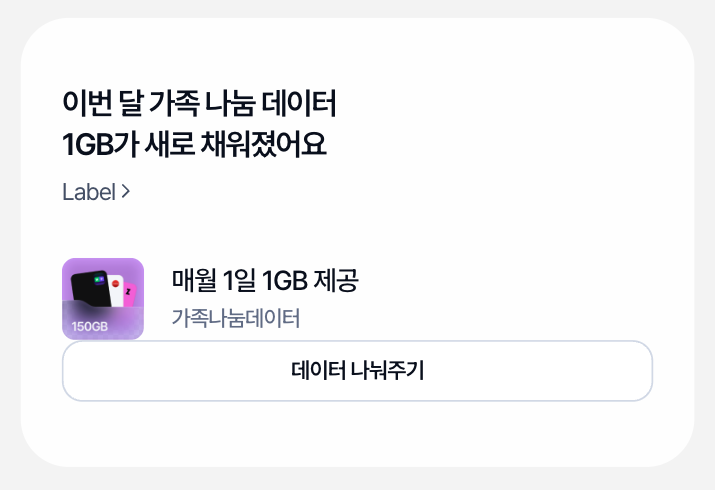
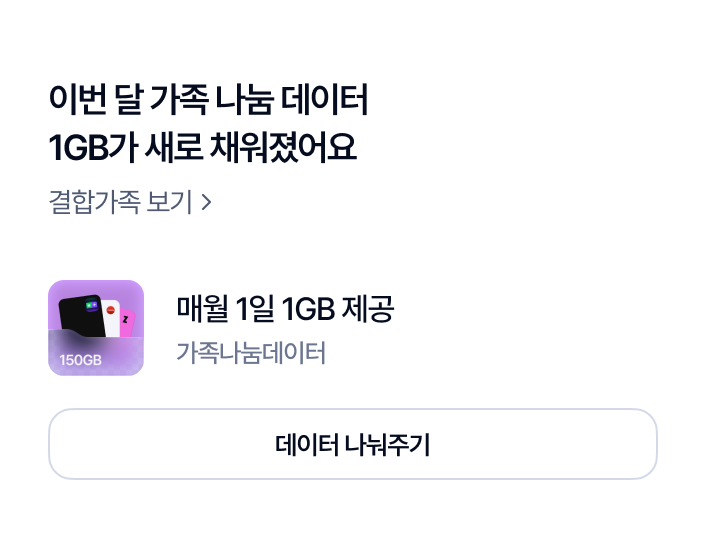
feat(corner-types): 신규 71 프리셋으로 코너 유형 관리(프리셋) 재구성
- 혜택형(중분류 제휴사형·미션형·이벤트형·혜택프로그램형·이용지원형) + 상품형(기기지원금·요금제·구독)
  > 레이아웃(배너·세로·가로·탭·바코드·그래프·좌우 리스트)으로 71개 재분류. 중분류=파일명, 레이아웃=이미지 실측.
- preset-images 전면 교체: 구 22장 → 신규 71장(DisplayCard 4장=0070~0073 포함), 0019·0020 제거.
- 이름 소스 preset-names.json(71) 신설 — presetDesignName이 우선 참조.
- 프리셋 카드 바깥 테두리 박스 제거(PNG 자체가 둥근 카드+여백 → 이중 프레임/여백 방지).
- 전시화면 관리 빌더: 혜택 컨테이너만 노출(name 필터, 데이터 보존).

diff --git a/src/lib/preset-shape-groups.ts b/src/lib/preset-shape-groups.ts
@@ -1,97 +1,160 @@
-// 코너 유형 관리(프리셋) — SB 혜택 프리셋 묶음(2026-11-20 사용자 요청).
-//  상위 분류: 혜택형(제휴사/프로모션) · 개인형(내 데이터 기반) · 상품형. 모양(배너 유무 등)은 하위 뎁스.
-//   · 배너형에는 상단 배너가 있는 프리셋만. 배너 없는 모양은 각자 유형으로 분리.
-//   · '데이터' 이름(내 데이터 선물·나눔·리필·기념일 데이터)은 제휴 혜택이 아니라 '개인형'으로 모음(2026-11-20).
-//   · 0012 경품 배송지=프로모션 세로형 · 0026 룰렛=프로모션 배너리스트 · 0010 출석미션=프로모션 그래프.
-//   · 0014·0028·0027·0001=상품형(맨 아래).
-//  이미지 = public/assets/preset-images/<CN-DSP-id>.png · 이름 = benefit-preset-designs.json.
-// source = 이 유형의 아이템 데이터를 가져오는 '원장(SSOT)'. 지금까지 협의 기준(2026-11-20):
-//  제휴사=어드민 제휴사 카테고리 관리 · 프로모션형=어드민 프로모션 관리 · 개인형=CVM·고객 원장(@cvm:key) · 상품형=EPC 원장.
+// 코너 유형 관리(프리셋) — 신규 71 프리셋(2026/11) 기준. 혜택형 top · 중분류 고정 · 레이아웃 leaf. 기기지원금·요금제·구독=상품형(2026-11-23 사용자).
+//  이미지 = public/assets/preset-images/<CN-DSP-id>.png · 중분류=파일명 · 레이아웃=이미지 실측.
 export type PresetShapeGroup = { key: string; label: string; note: string; source: string; presetIds: string[] };
 
 export const PRESET_SHAPE_GROUPS: PresetShapeGroup[] = [
   {
-    key: 'affiliate-banner',
-    label: '혜택형 > 제휴사 > 배너·세로형',
-    note: '상단 배너 + 세로형 제휴사 혜택 (바코드·혜택카드)',
-    source: '어드민 · 제휴사 카테고리 관리 (할인, 쿠폰)',
-    presetIds: ['CN-DSP-0004', 'CN-DSP-0011', 'CN-DSP-0018', 'CN-DSP-0009'],
+    key: 'aff-banner',
+    label: '혜택형 > 제휴사형 > 배너형',
+    note: '제휴사형 · 배너형 (4개)',
+    source: '어드민 · 제휴사 카테고리 관리',
+    presetIds: ['CN-DSP-0003', 'CN-DSP-0008', 'CN-DSP-0009', 'CN-DSP-0039'],
   },
   {
-    key: 'affiliate-triple',
-    label: '혜택형 > 제휴사 > 세로형',
-    note: '배너 없음 · 세로 혜택 카드(±안내, ±버튼)',
-    source: '어드민 · 제휴사 카테고리 관리 (할인, 쿠폰)',
-    presetIds: ['CN-DSP-0020', 'CN-DSP-0021'],
+    key: 'aff-vertical',
+    label: '혜택형 > 제휴사형 > 세로형',
+    note: '제휴사형 · 세로형 (8개)',
+    source: '어드민 · 제휴사 카테고리 관리',
+    presetIds: ['CN-DSP-0007', 'CN-DSP-0018', 'CN-DSP-0021', 'CN-DSP-0024', 'CN-DSP-0025', 'CN-DSP-0030', 'CN-DSP-0061', 'CN-DSP-0073'],
   },
   {
-    key: 'program',
-    label: '혜택형 > 프로그램형 > 세로형',
-    note: 'VIP Pick·T데이 등 이름 가진 내부 프로그램 · 혜택(모아보기·큐레이션) / 미션(출석체크 적립) · 세로형 + CTA',
-    source: '내부 프로그램 (혜택 프로그램, 미션 프로그램)',
-    presetIds: ['CN-DSP-0024', 'CN-DSP-0025', 'CN-DSP-0010'],
+    key: 'aff-barcode',
+    label: '혜택형 > 제휴사형 > 바코드형',
+    note: '제휴사형 · 바코드형 (2개)',
+    source: '어드민 · 제휴사 카테고리 관리',
+    presetIds: ['CN-DSP-0004', 'CN-DSP-0011'],
   },
   {
-    key: 'program-banner',
-    label: '혜택형 > 프로그램형 > 배너·세로형',
-    note: '돈 버는 교통 등 적립 미션 · 상단 배너 + 세로형 + CTA → 내부 메뉴 진입',
-    source: '내부 프로그램 (혜택 프로그램, 미션 프로그램)',
+    key: 'mission-banner',
+    label: '혜택형 > 미션형 > 배너형',
+    note: '미션형 · 배너형 (1개)',
+    source: '내부 미션 서비스(진행값=고객 / 랜딩=내부 메뉴)',
     presetIds: ['CN-DSP-0002'],
   },
   {
-    key: 'promotion-banner-list',
-    label: '혜택형 > 프로모션형 > 배너 · 좌우 리스트형',
-    note: '참여/응모형(룰렛 등) · 상단 배너 + 좌우 리스트 + 버튼',
-    source: '하이브리드 · 어드민 프로모션 관리 + 고객 원장(응모·참여 내역)',
+    key: 'mission-vertical',
+    label: '혜택형 > 미션형 > 세로형',
+    note: '미션형 · 세로형 (2개)',
+    source: '내부 미션 서비스(진행값=고객 / 랜딩=내부 메뉴)',
+    presetIds: ['CN-DSP-0029', 'CN-DSP-0042'],
+  },
+  {
+    key: 'mission-tab',
+    label: '혜택형 > 미션형 > 탭형',
+    note: '미션형 · 탭형 (1개)',
+    source: '내부 미션 서비스(진행값=고객 / 랜딩=내부 메뉴)',
+    presetIds: ['CN-DSP-0043'],
+  },
+  {
+    key: 'mission-graph',
+    label: '혜택형 > 미션형 > 그래프형',
+    note: '미션형 · 그래프형 (1개)',
+    source: '내부 미션 서비스(진행값=고객 / 랜딩=내부 메뉴)',
+    presetIds: ['CN-DSP-0010'],
+  },
+  {
+    key: 'mission-siderow',
+    label: '혜택형 > 미션형 > 좌우 리스트형',
+    note: '미션형 · 좌우 리스트형 (1개)',
+    source: '내부 미션 서비스(진행값=고객 / 랜딩=내부 메뉴)',
     presetIds: ['CN-DSP-0026'],
   },
   {
-    key: 'promotion-vertical',
-    label: '혜택형 > 프로모션형 > 세로형',
-    note: '이벤트·경품 안내 카드 · 세로 카드 + 안내 + CTA(배송지 입력 등)',
-    source: '미정 (협의 중)',
-    presetIds: ['CN-DSP-0012'],
+    key: 'event-vertical',
+    label: '혜택형 > 이벤트형 > 세로형',
+    note: '이벤트형 · 세로형 (6개)',
+    source: '어드민 · 프로모션 관리',
+    presetIds: ['CN-DSP-0012', 'CN-DSP-0037', 'CN-DSP-0040', 'CN-DSP-0041', 'CN-DSP-0056', 'CN-DSP-0062'],
   },
   {
-    key: 'personal-data',
-    label: '개인형 > 데이터 > 세로형',
-    note: '제휴 혜택이 아닌 내 데이터 기반 — 데이터 선물·나눔·리필·기념일 데이터',
-    source: '고객 원장(내 데이터 잔여·선물·나눔)',
-    presetIds: ['CN-DSP-0017', 'CN-DSP-0022', 'CN-DSP-0023', 'CN-DSP-0016'],
+    key: 'event-tab',
+    label: '혜택형 > 이벤트형 > 탭형',
+    note: '이벤트형 · 탭형 (1개)',
+    source: '어드민 · 프로모션 관리',
+    presetIds: ['CN-DSP-0045'],
   },
   {
-    key: 'personal-point',
-    label: '개인형 > 포인트 > 좌우 리스트형',
-    note: '내 포인트 기반 · 좌 라벨/우 값 적립·소멸 내역 리스트 + 안내문구',
-    source: '고객 원장(포인트 적립·소멸 내역)',
-    presetIds: ['CN-DSP-0019'],
+    key: 'program-banner',
+    label: '혜택형 > 혜택프로그램형 > 배너형',
+    note: '혜택프로그램형 · 배너형 (3개)',
+    source: '내부 프로그램(기획) · 아이템=제휴/상품 편성',
+    presetIds: ['CN-DSP-0047', 'CN-DSP-0048', 'CN-DSP-0049'],
   },
   {
-    key: 'product-sub',
-    label: '상품형 > 구독상품 > 배너·세로형',
-    note: 'T우주 등 구독 상품(미활성화·외부 앱) · 상단 배너 + 세로형 + CTA',
-    source: 'EPC 원장 (구독)',
-    presetIds: ['CN-DSP-0014', 'CN-DSP-0006'],
+    key: 'program-vertical',
+    label: '혜택형 > 혜택프로그램형 > 세로형',
+    note: '혜택프로그램형 · 세로형 (5개)',
+    source: '내부 프로그램(기획) · 아이템=제휴/상품 편성',
+    presetIds: ['CN-DSP-0044', 'CN-DSP-0046', 'CN-DSP-0051', 'CN-DSP-0052', 'CN-DSP-0054'],
   },
   {
-    key: 'product-device-banner',
-    label: '상품형 > 디바이스 > 배너·가로형',
-    note: '기기 지원금 · 상단 배너 + 가로 캐러셀(단말 카드)',
-    source: 'EPC 원장 (기기 지원금)',
-    presetIds: ['CN-DSP-0028'],
+    key: 'program-hcarousel',
+    label: '혜택형 > 혜택프로그램형 > 가로형',
+    note: '혜택프로그램형 · 가로형 (3개)',
+    source: '내부 프로그램(기획) · 아이템=제휴/상품 편성',
+    presetIds: ['CN-DSP-0057', 'CN-DSP-0058', 'CN-DSP-0059'],
   },
   {
-    key: 'product-device-vertical',
-    label: '상품형 > 디바이스 > 세로형',
-    note: '단말 보상(안심보상) · 세로 상품 카드 + CTA',
-    source: 'EPC 원장 (안심보상)',
+    key: 'program-tab',
+    label: '혜택형 > 혜택프로그램형 > 탭형',
+    note: '혜택프로그램형 · 탭형 (6개)',
+    source: '내부 프로그램(기획) · 아이템=제휴/상품 편성',
+    presetIds: ['CN-DSP-0035', 'CN-DSP-0036', 'CN-DSP-0050', 'CN-DSP-0053', 'CN-DSP-0055', 'CN-DSP-0060'],
+  },
+  {
+    key: 'support-banner',
+    label: '혜택형 > 이용지원형 > 배너형',
+    note: '이용지원형 · 배너형 (1개)',
+    source: '직접 입력(운영) · 앱 내 링크 (API 아님)',
     presetIds: ['CN-DSP-0027'],
   },
   {
-    key: 'product-roaming',
-    label: '상품형 > 로밍형 > 세로형',
-    note: '클럽T로밍 멤버십 등 로밍 상품 · 세로 카드',
-    source: 'EPC 원장 (로밍 멤버십)',
-    presetIds: ['CN-DSP-0001'],
+    key: 'support-vertical',
+    label: '혜택형 > 이용지원형 > 세로형',
+    note: '이용지원형 · 세로형 (8개)',
+    source: '직접 입력(운영) · 앱 내 링크 (API 아님)',
+    presetIds: ['CN-DSP-0017', 'CN-DSP-0022', 'CN-DSP-0023', 'CN-DSP-0063', 'CN-DSP-0064', 'CN-DSP-0065', 'CN-DSP-0067', 'CN-DSP-0068'],
+  },
+  {
+    key: 'support-tab',
+    label: '혜택형 > 이용지원형 > 탭형',
+    note: '이용지원형 · 탭형 (1개)',
+    source: '직접 입력(운영) · 앱 내 링크 (API 아님)',
+    presetIds: ['CN-DSP-0066'],
+  },
+  {
+    key: 'support-graph',
+    label: '혜택형 > 이용지원형 > 그래프형',
+    note: '이용지원형 · 그래프형 (2개)',
+    source: '직접 입력(운영) · 앱 내 링크 (API 아님)',
+    presetIds: ['CN-DSP-0001', 'CN-DSP-0016'],
+  },
+  {
+    key: 'support-siderow',
+    label: '혜택형 > 이용지원형 > 좌우 리스트형',
+    note: '이용지원형 · 좌우 리스트형 (1개)',
+    source: '직접 입력(운영) · 앱 내 링크 (API 아님)',
+    presetIds: ['CN-DSP-0072'],
+  },
+  {
+    key: 'product-banner',
+    label: '상품형 > 배너형',
+    note: '상품형 · 배너형 (4개)',
+    source: 'EPC 원장 (단말 지원금·요금제·구독)',
+    presetIds: ['CN-DSP-0005', 'CN-DSP-0006', 'CN-DSP-0014', 'CN-DSP-0015'],
+  },
+  {
+    key: 'product-vertical',
+    label: '상품형 > 세로형',
+    note: '상품형 · 세로형 (2개)',
+    source: 'EPC 원장 (단말 지원금·요금제·구독)',
+    presetIds: ['CN-DSP-0013', 'CN-DSP-0033'],
+  },
+  {
+    key: 'product-hcarousel',
+    label: '상품형 > 가로형',
+    note: '상품형 · 가로형 (8개)',
+    source: 'EPC 원장 (단말 지원금·요금제·구독)',
+    presetIds: ['CN-DSP-0028', 'CN-DSP-0031', 'CN-DSP-0032', 'CN-DSP-0034', 'CN-DSP-0038', 'CN-DSP-0069', 'CN-DSP-0070', 'CN-DSP-0071'],
   },
 ];

diff --git a/src/app/admin/corner-types/preset/page.tsx b/src/app/admin/corner-types/preset/page.tsx
@@ -20,27 +20,19 @@ function imgSrc(id: string): string {
   }
 }
 
-// 리프(모양) 묶음 톤 — key 기준.
-const GROUP_TONE: Record<string, string> = {
-  'affiliate-banner': 'bg-[#D9E9FF] text-[#2E7AFF]',
-  'affiliate-triple': 'bg-[#FFE4EC] text-[#D6336C]',
-  'program': 'bg-[#FCE1EC] text-[#BE2063]',
-  'program-banner': 'bg-[#FCE1EC] text-[#BE2063]',
-  'promotion-banner-list': 'bg-[#FFE4C4] text-[#D66400]',
-  'promotion-vertical': 'bg-[#FFE4C4] text-[#D66400]',
-  'promotion-graph': 'bg-[#FFE4C4] text-[#D66400]',
-  'personal-data': 'bg-[#D5F2EC] text-[#0B8A75]',
-  'personal-point': 'bg-[#D5F2EC] text-[#0B8A75]',
-  'product-sub': 'bg-[#FFF2CC] text-[#A97A00]',
-  'product-device-banner': 'bg-[#FFF2CC] text-[#A97A00]',
-  'product-device-vertical': 'bg-[#FFF2CC] text-[#A97A00]',
-  'product-roaming': 'bg-[#FFF2CC] text-[#A97A00]',
+// 리프 톤 — 중분류(mid)별 색. 리프 키가 많아 중분류 기준으로 칠한다.
+const MID_TONE: Record<string, string> = {
+  '제휴사형': 'bg-[#D9E9FF] text-[#2E7AFF]',
+  '미션형': 'bg-[#FFE4C4] text-[#D66400]',
+  '이벤트형': 'bg-[#FFE4EC] text-[#D6336C]',
+  '혜택프로그램형': 'bg-[#FCE1EC] text-[#BE2063]',
+  '이용지원형': 'bg-[#D5F2EC] text-[#0B8A75]',
+  '상품형': 'bg-[#FFF2CC] text-[#A97A00]',
 };
 
-// 최상위 분류 톤 — 좌측 바/제목 배지/박스 배경·테두리.
+// 최상위 분류 톤 — 혜택형(단일 top).
 const TOP_TONE: Record<string, { bar: string; chip: string; box: string; border: string }> = {
   '혜택형': { bar: 'bg-[#D6336C]', chip: 'bg-[#FFE4EC] text-[#D6336C]', box: 'bg-[#FFF6F9]', border: 'border-[#F6D3DF]' },
-  '개인형': { bar: 'bg-[#0B8A75]', chip: 'bg-[#D5F2EC] text-[#0B8A75]', box: 'bg-[#F2FBF8]', border: 'border-[#CDEBE2]' },
   '상품형': { bar: 'bg-[#A97A00]', chip: 'bg-[#FFF2CC] text-[#A97A00]', box: 'bg-[#FFFBF0]', border: 'border-[#EEDFB0]' },
 };
 
@@ -79,7 +71,7 @@ export default function PresetTypeListPage() {
       </nav>
       <h1 className="text-[24px] font-bold leading-[32px] tracking-[-0.6px] text-[#1a1a1a]">코너 유형 관리(프리셋)</h1>
       <p className="mb-4 mt-1 text-[14px] text-[#697582]">
-        SB 혜택 프리셋 <b className="text-[#1a1a1a]">{totalPresets}개</b>를 <b className="text-[#1a1a1a]">혜택형 · 개인형 · 상품형</b>으로 그루핑하고, 그 아래 중분류(제휴사·프로모션형)와 모양별로 <b className="text-[#1a1a1a]">{totalLeaves}개 코너 유형</b>으로 정리했습니다. 유형마다 포함된 프리셋 이미지를 전부 보여줍니다.
+        신규 프리셋 <b className="text-[#1a1a1a]">{totalPresets}개</b>를 <b className="text-[#1a1a1a]">혜택형</b>(중분류 제휴사형·미션형·이벤트형·혜택프로그램형·이용지원형) + <b className="text-[#1a1a1a]">상품형</b>(기기 지원금·요금제·구독) 아래 레이아웃(배너형·세로형·가로형·탭형·바코드형·그래프형·좌우 리스트형)으로 묶었습니다. 총 <b className="text-[#1a1a1a]">{totalLeaves}개 유형</b>. <span className="text-[#8b949e]">※ 중분류=파일명, 레이아웃=이미지 기준. 개인화형(1-1~1-3)은 별도 유형이 아니라 이 코너들을 빌더 개인화 슬롯에 담는 사용 방식.</span>
       </p>
 
       {/* 옵션 안내 — 바코드·CTA·스와이프는 유형(구조)이 아니라 켜고 끄는 옵션(토글)이라 별도 유형으로 쪼개지 않는다 */}
@@ -133,7 +125,7 @@ export default function PresetTypeListPage() {
                     <div className="flex flex-col gap-4">
                       {mid.leaves.map((leaf) => {
                         const g = leaf.group;
-                        const tone = GROUP_TONE[g.key] ?? 'bg-[#DCE0E5] text-[#454F59]';
+                        const tone = MID_TONE[mid.name ?? ''] ?? MID_TONE[top.name] ?? 'bg-[#DCE0E5] text-[#454F59]';
                         return (
                           // 코너 유형 = 안쪽 박스(전체 경로 라벨)
                           <section key={g.key} id={g.key} className="scroll-mt-6 rounded-[14px] border border-[#e8ecef] bg-white p-4">
@@ -152,12 +144,14 @@ export default function PresetTypeListPage() {
                               </div>
                             </div>
                             <div className="grid grid-cols-[repeat(auto-fill,minmax(236px,264px))] gap-4 rounded-[12px] bg-[#eef0f6] p-4">
+                              {g.presetIds.length === 0 && (
+                                <div className="col-span-full flex items-center justify-center rounded-[10px] border border-dashed border-[#c4c9cf] bg-white/60 px-3 py-6 text-[12px] font-medium text-[#8b949e]">샘플 이미지 TBD — FO 588 케이스로 채울 예정</div>
+                              )}
                               {g.presetIds.map((id) => (
                                 <figure key={id} className="flex flex-col gap-1.5">
-                                  <div className="overflow-hidden rounded-[12px] border border-[#e0e4ea] bg-white">
-                                    {/* eslint-disable-next-line @next/next/no-img-element */}
-                                    <img src={imgSrc(id)} alt={presetDesignName(id)} className="block w-full" />
-                                  </div>
+                                  {/* 신규 PNG는 이미 둥근 카드+자체 여백 포함 → 바깥 테두리 박스 없이 그대로(이중 프레임/여백 방지, 2026-11-23) */}
+                                  {/* eslint-disable-next-line @next/next/no-img-element */}
+                                  <img src={imgSrc(id)} alt={presetDesignName(id)} className="block w-full" />
                                   <figcaption className="px-0.5 text-[12px] leading-tight [word-break:keep-all]">
                                     <span className="font-medium text-[#454f59]">{presetDesignName(id)}</span>
                                     <span className="ml-1 text-[#b3b9c0]">{id}</span>

diff --git a/src/components/preview/preset-design-card.tsx b/src/components/preview/preset-design-card.tsx
@@ -5,18 +5,22 @@
 import * as React from 'react';
 import { ChevronRight, Info, MapPin } from 'lucide-react';
 import designs from '@/lib/benefit-preset-designs.json';
+import presetNames from '@/lib/preset-names.json';
 
 type Props = Record<string, unknown>;
 type Node = { cid: string; props: Props | null; children: Node[] };
 type Design = { name: string; tree: Node };
 
 const DESIGNS = designs as Record<string, Design>;
+const PRESET_NAMES = presetNames as Record<string, string>;
 export function hasPresetDesign(id?: string | null): boolean {
   return !!id && !!DESIGNS[id];
 }
+// 신규 67 프리셋 이름(preset-names.json) 우선, 없으면 구 설계도 JSON. 접두어([..][혜택]) 제거.
 export function presetDesignName(id?: string | null): string {
-  if (!id || !DESIGNS[id]) return '';
-  return (DESIGNS[id].name || '').replace(/^\[[^\]]*\]\s*\[혜택\]\s*/, '').replace(/^\[혜택\]\s*/, '');
+  if (!id) return '';
+  const raw = PRESET_NAMES[id] ?? DESIGNS[id]?.name ?? '';
+  return raw.replace(/^\[[^\]]*\]\s*\[혜택\]\s*/, '').replace(/^\[혜택\]\s*/, '');
 }
 
 const s = (p: Props | null, k: string): string => { const v = p?.[k]; return typeof v === 'string' ? v : ''; };

diff --git a/src/app/admin/containers-test/tree-shell.tsx b/src/app/admin/containers-test/tree-shell.tsx
@@ -5,7 +5,8 @@ import { ContainerTree } from '@/components/container-tree';
 
 export async function ContainersTestShell({ children }: { children: React.ReactNode }) {
   const containers = await prisma.container.findMany({
-    where: { NOT: { containerType: 'PROMOTION' } },
+    // 혜택 탭만 노출(2026-11-23 사용자 요청: 빌더에서 혜택만 남기고 나머지 숨김). 데이터는 보존 — 되돌리려면 name 필터만 제거.
+    where: { NOT: { containerType: 'PROMOTION' }, name: { contains: '혜택' } },
     orderBy: { createdAt: 'asc' },
     select: {
       id: true,
